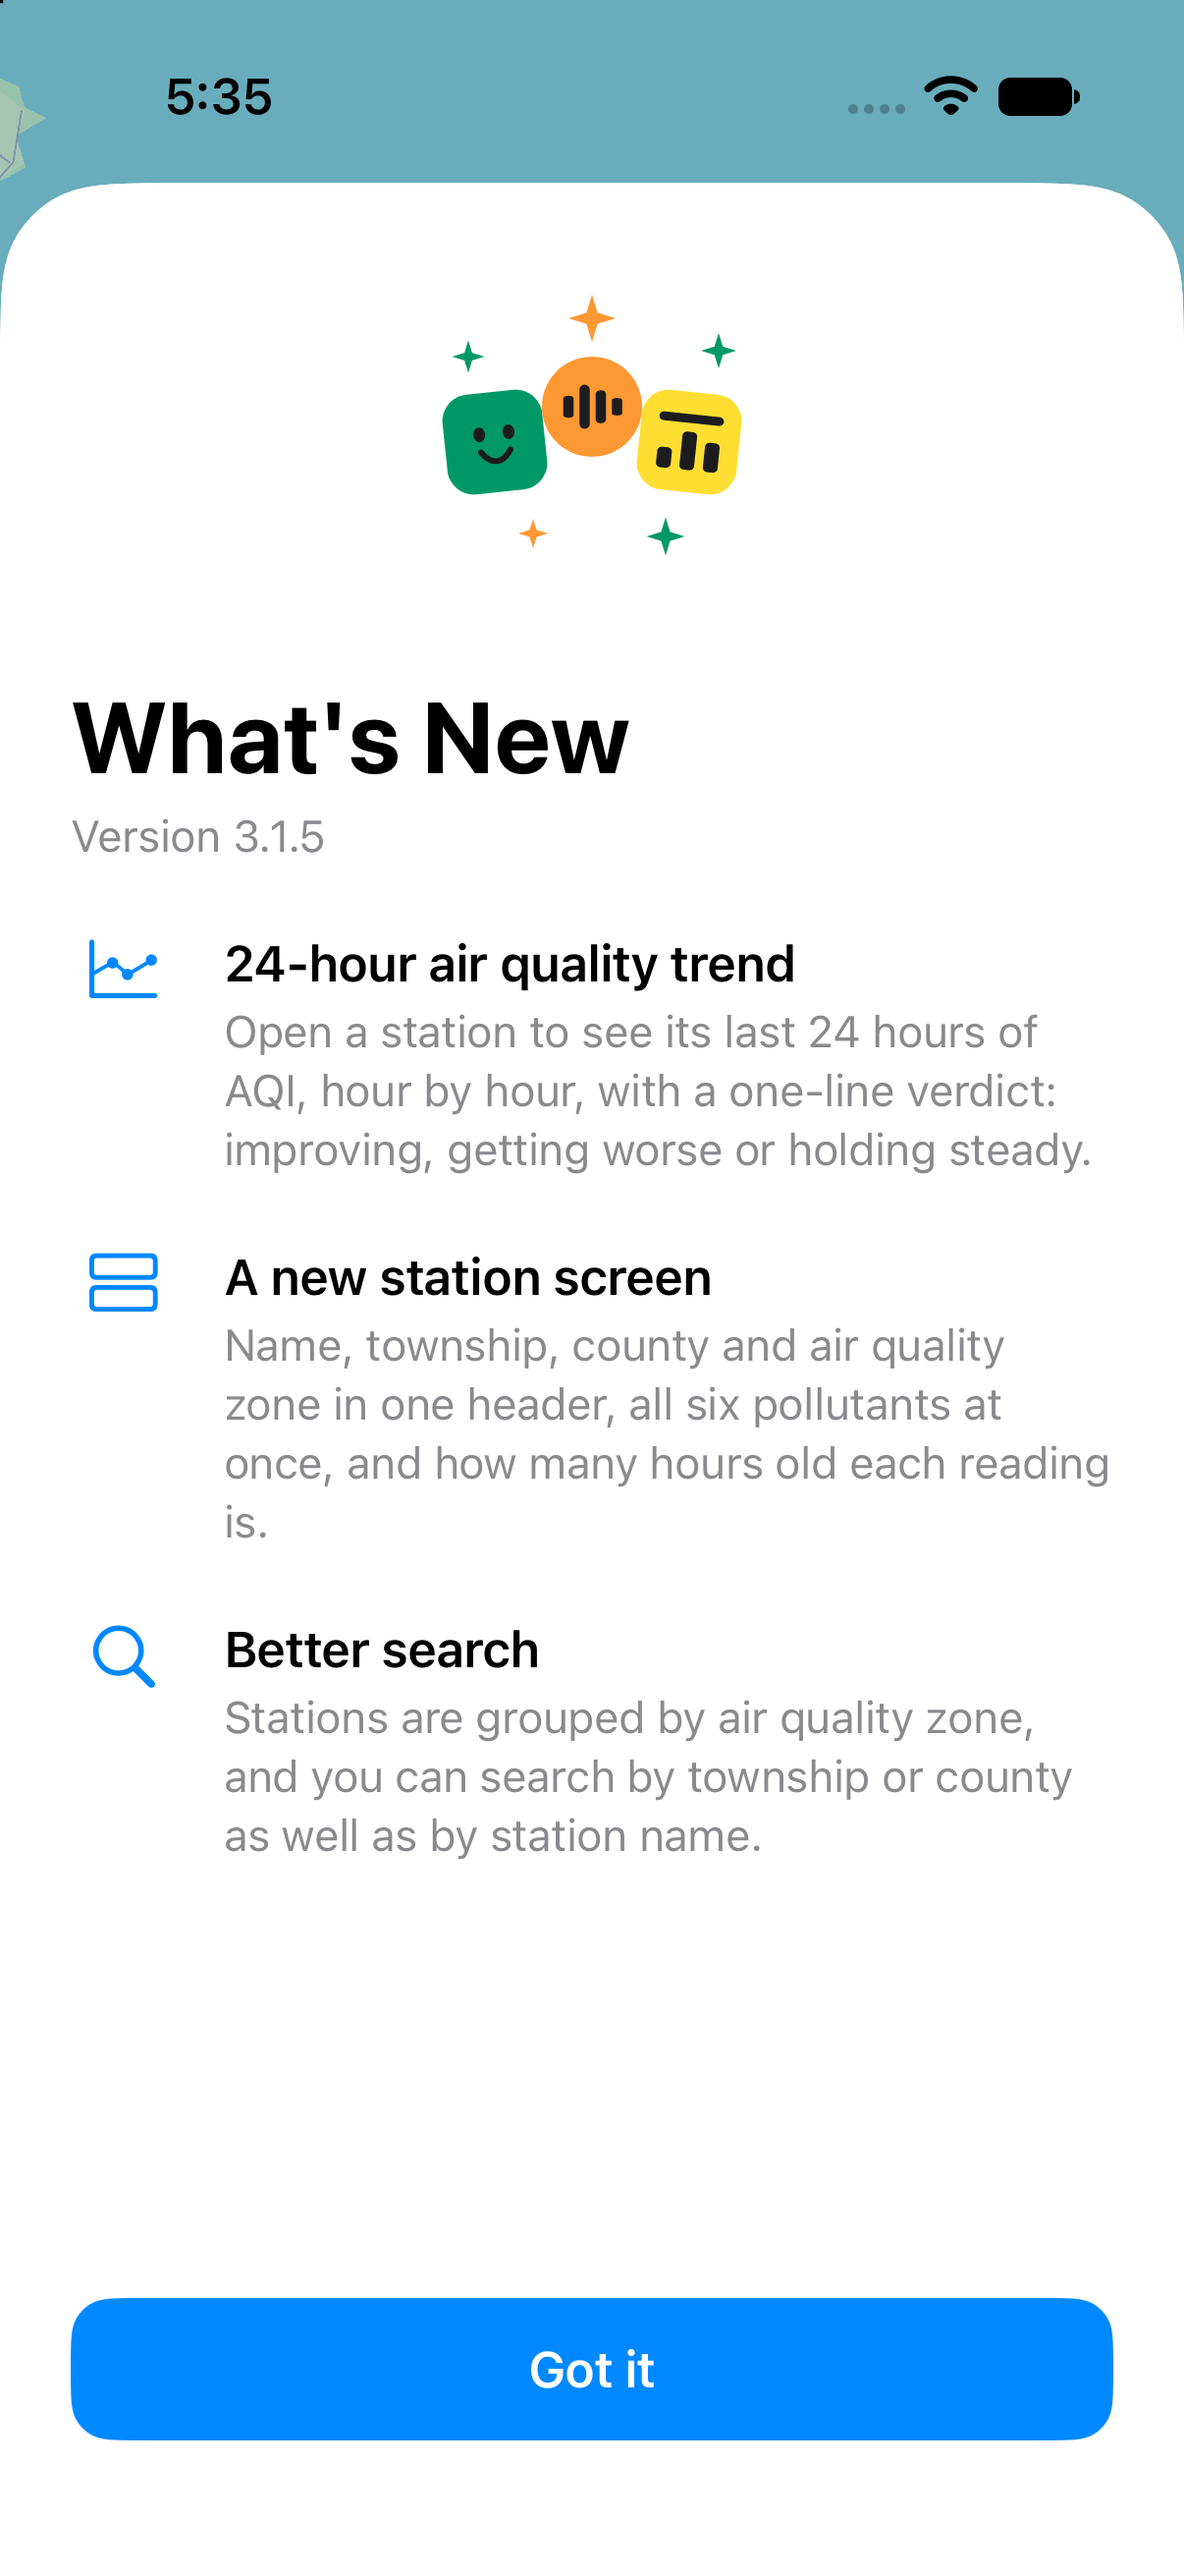
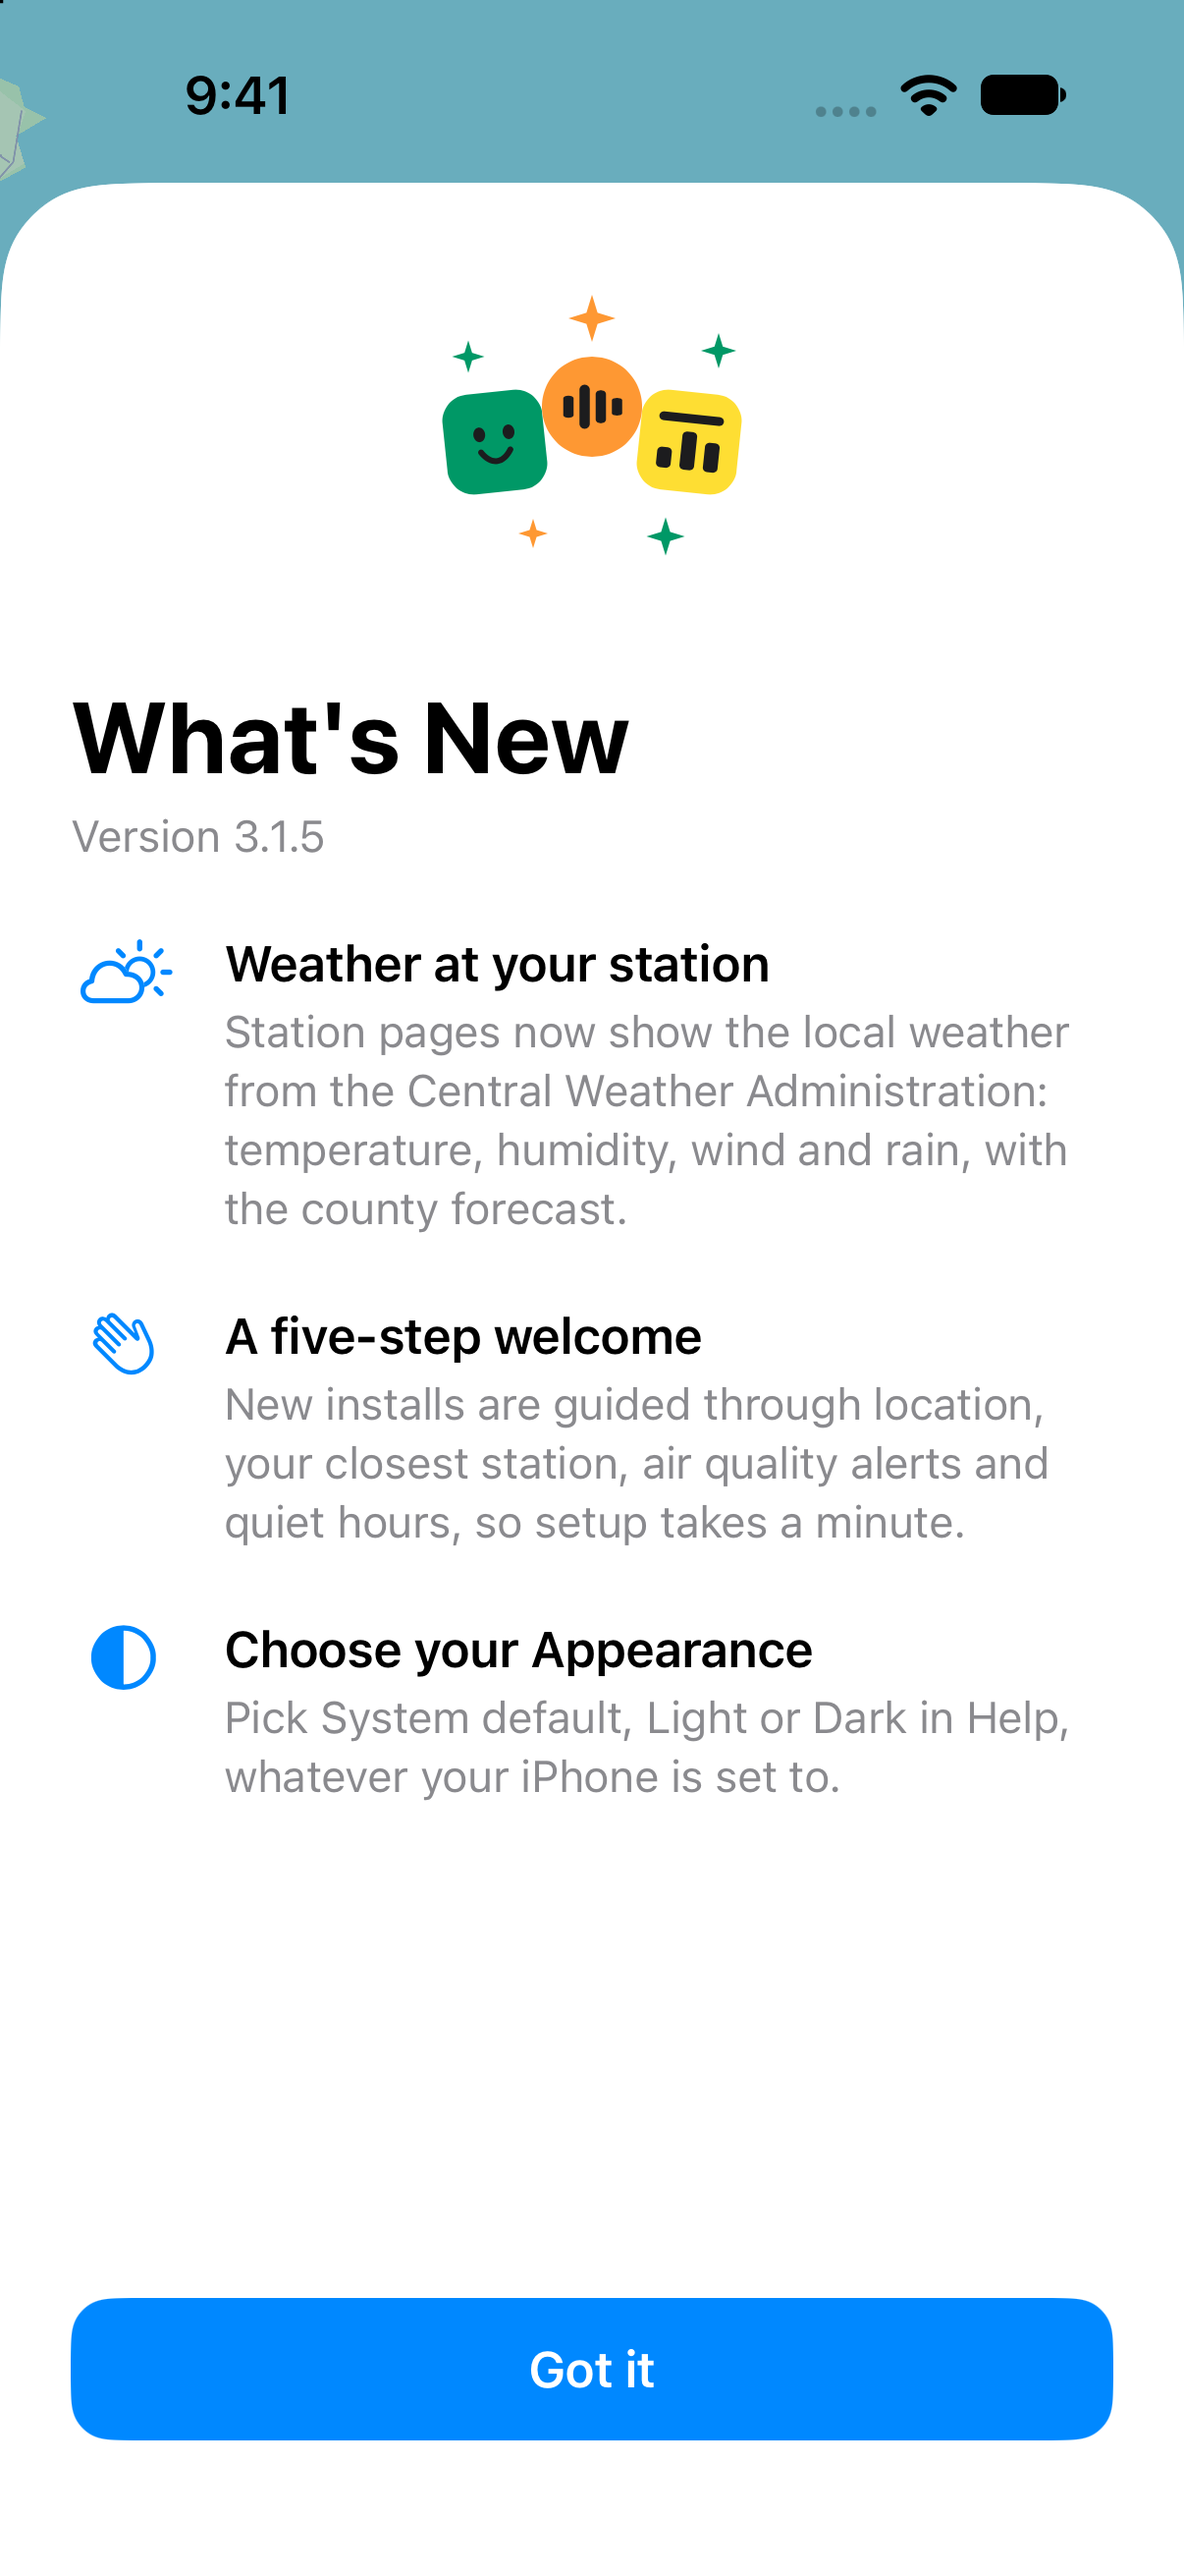
FOX-142: What's New 3.1.5 bullets match the live notes (weather, five-step welcome, Appearance)

diff --git a/ios/TWAQI/Utils/WhatsNew.swift b/ios/TWAQI/Utils/WhatsNew.swift
@@ -31,12 +31,12 @@ enum WhatsNew {
     /// opens no popup (it is still counted as seen).
     static let releases: [Release] = [
         Release(version: "3.1.5", items: [
-            Item(icon: "chart.xyaxis.line", titleKey: "WhatsNew.3_1_5.trend_title",
-                 bodyKey: "WhatsNew.3_1_5.trend_body"),
-            Item(icon: "rectangle.grid.1x2", titleKey: "WhatsNew.3_1_5.station_title",
-                 bodyKey: "WhatsNew.3_1_5.station_body"),
-            Item(icon: "magnifyingglass", titleKey: "WhatsNew.3_1_5.search_title",
-                 bodyKey: "WhatsNew.3_1_5.search_body"),
+            Item(icon: "cloud.sun", titleKey: "WhatsNew.3_1_5.weather_title",
+                 bodyKey: "WhatsNew.3_1_5.weather_body"),
+            Item(icon: "hand.wave", titleKey: "WhatsNew.3_1_5.welcome_title",
+                 bodyKey: "WhatsNew.3_1_5.welcome_body"),
+            Item(icon: "circle.lefthalf.filled", titleKey: "WhatsNew.3_1_5.appearance_title",
+                 bodyKey: "WhatsNew.3_1_5.appearance_body"),
         ]),
     ]
 
